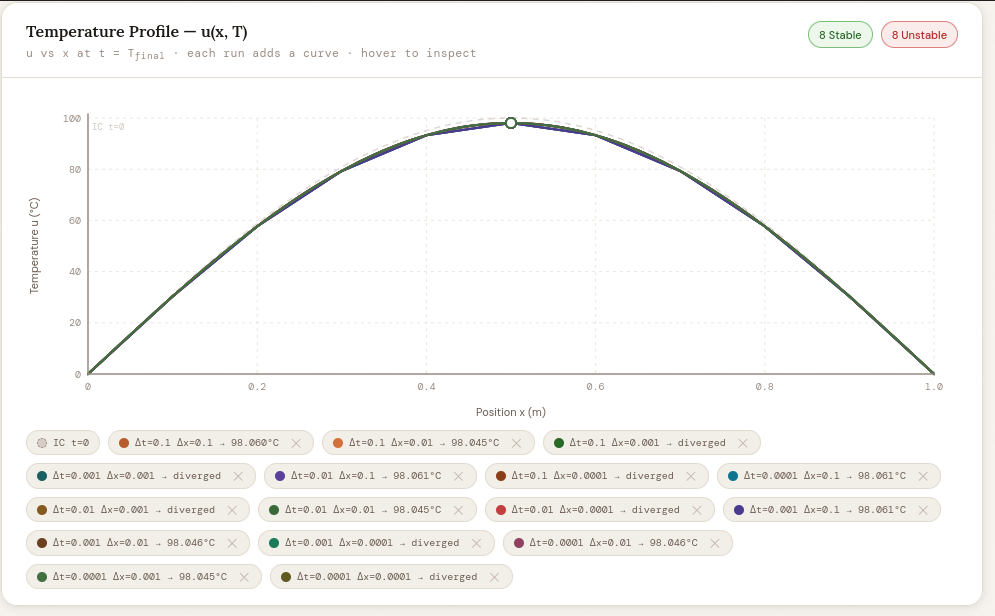
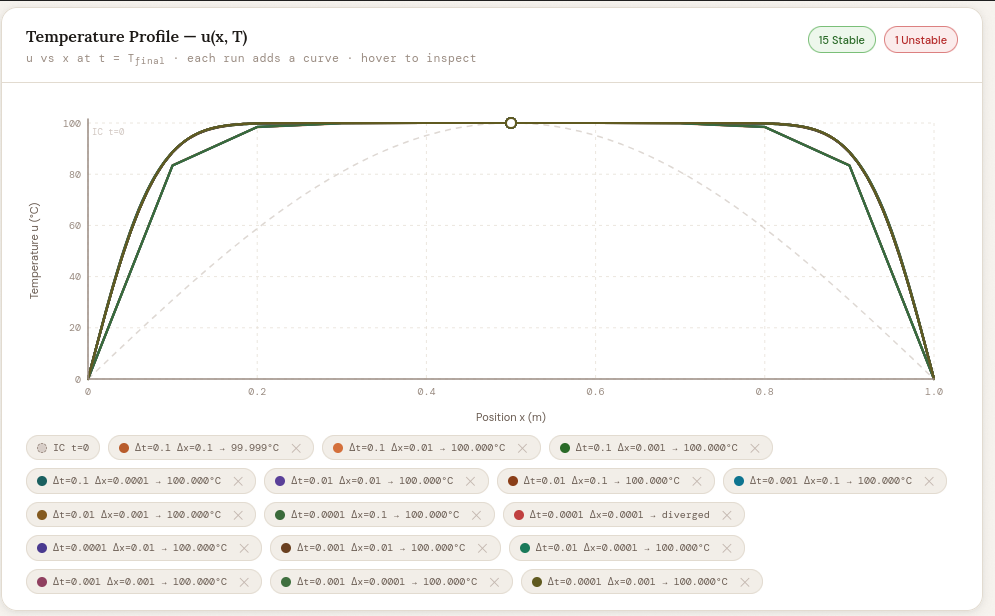
fix: algo, report, ss updated

diff --git a/lab02/backend/main.go b/lab02/backend/main.go
@@ -11,24 +11,22 @@ import (
 
 const MaxOps = 100_000_000
 
-// temperature and profile may be nil if the simulation diverged or was too costly.
+// json format
 type SimResult struct {
-	// nil means diverged / too costly
 	Temperature *float64  `json:"temperature"`
-	Profile     []float64 `json:"profile"` // sampled u values over x (length = ProfilePoints)
-	XValues     []float64 `json:"x_values"` // corresponding x positions
+	Profile     []float64 `json:"profile"`
+	XValues     []float64 `json:"x_values"`
 	Stable      bool      `json:"stable"`
 	CFL         float64   `json:"cfl"`
 	NX          int       `json:"nx"`
 	Steps       int       `json:"steps"`
-	// params echoed back
-	Alpha   float64 `json:"alpha"`
-	L       float64 `json:"l"`
-	TFinal  float64 `json:"t_final"`
-	ICPeak  float64 `json:"ic_peak"`
-	Dt      float64 `json:"dt"`
-	Dx      float64 `json:"dx"`
-	Message string  `json:"message"`
+	Alpha       float64   `json:"alpha"`
+	L           float64   `json:"l"`
+	TFinal      float64   `json:"t_final"`
+	ICPeak      float64   `json:"ic_peak"`
+	Dt          float64   `json:"dt"`
+	Dx          float64   `json:"dx"`
+	Message     string    `json:"message"`
 }
 
 type SimParams struct {
@@ -61,8 +59,10 @@ func simulate(p SimParams) SimResult {
 	if steps < 1 {
 		steps = 1
 	}
+
+	// 'r' is calculated just for reporting; implicit method is unconditionally stable
 	r := p.Alpha * p.Dt / (p.Dx * p.Dx)
-	stable := r <= 0.5
+	stable := true
 
 	ops := int64(nx) * int64(steps)
 	if ops > MaxOps {
@@ -82,33 +82,63 @@ func simulate(p SimParams) SimResult {
 		}
 	}
 
-	// u[i] at x = i*dx
-	u := make([]float64, nx)
-	for i := 0; i < nx; i++ {
-		x := float64(i) * p.Dx
-		u[i] = p.ICPeak * math.Sin(math.Pi*x/p.L)
-	}
-	u[0] = 0.0
-	u[nx-1] = 0.0
 
-	uNew := make([]float64, nx)
+	// T[i] maps to temperatures at x = i*dx
+	T := make([]float64, nx)
+
+	// set initial condition: Uniform T0 across the plate
+	for i := 0; i < nx; i++ {
+		T[i] = p.ICPeak
+	}
+
+	// boundary conditions (fixed to 0.0, representing Ta and Tn)
+	TLeft := 0.0
+	TRight := 0.0
+	T[0] = TLeft
+	T[nx-1] = TRight
+
+	// sweep coefficients arrays
+	alphaArr := make([]float64, nx)
+	betaArr := make([]float64, nx)
+
+	// precompute static constants
+	// based on: Ai = Ci = lambda/h^2; Bi = 2*lambda/h^2 + rho*c/tau
+	// we substitute lambda/(rho*c) = p.Alpha
+	A := p.Alpha / (p.Dx * p.Dx)
+	C := A
+	B := 2.0*A + 1.0/p.Dt
 
 	diverged := false
 	divergeStep := 0
 
+	// time stepping loop
 	for t := 0; t < steps; t++ {
-		uNew[0] = 0.0
-		uNew[nx-1] = 0.0
-		for i := 1; i < nx-1; i++ {
-			uNew[i] = u[i] + r*(u[i+1]-2.0*u[i]+u[i-1])
-		}
-		u, uNew = uNew, u
+		// forward sweep : Прямая прогонка
+		alphaArr[0] = 0.0
+		betaArr[0] = TLeft
 
-		// check divergence at center
-		mid := u[nx/2]
+		for i := 1; i < nx-1; i++ {
+			// F_i = -(rho*c/tau) * T_i^n
+			F := -(1.0 / p.Dt) * T[i]
+
+			denom := B - C*alphaArr[i-1]
+			alphaArr[i] = A / denom
+			betaArr[i] = (C*betaArr[i-1] - F) / denom
+		}
+
+		// backward sweep : Обратная прогонка
+		T[nx-1] = TRight
+		for i := nx - 2; i >= 1; i-- {
+			T[i] = alphaArr[i]*T[i+1] + betaArr[i]
+		}
+		T[0] = TLeft
+
+		// check divergence at center just in case of extreme parameter float overflow
+		mid := T[nx/2]
 		if math.IsNaN(mid) || math.IsInf(mid, 0) || math.Abs(mid) > 1e15 {
 			diverged = true
 			divergeStep = t
+			stable = false
 			break
 		}
 	}
@@ -126,11 +156,11 @@ func simulate(p SimParams) SimResult {
 			ICPeak:      p.ICPeak,
 			Dt:          p.Dt,
 			Dx:          p.Dx,
-			Message:     fmt.Sprintf("Diverged at step %d (r=%.4f > 0.5)", divergeStep, r),
+			Message:     fmt.Sprintf("Diverged at step %d due to numerical overflow", divergeStep),
 		}
 	}
 
-	// build sampled profile (at most 300 points for the graph)
+	// build sampled profile (max 300 points for the graph)
 	sampleCount := nx
 	if sampleCount > 300 {
 		sampleCount = 300
@@ -138,21 +168,16 @@ func simulate(p SimParams) SimResult {
 	xVals := make([]float64, sampleCount)
 	uVals := make([]float64, sampleCount)
 	for i := 0; i < sampleCount; i++ {
-		// map sample index to grid index
 		gi := int(math.Round(float64(i) * float64(nx-1) / float64(sampleCount-1)))
 		if gi >= nx {
 			gi = nx - 1
 		}
 		xVals[i] = float64(gi) * p.Dx
-		uVals[i] = u[gi]
+		uVals[i] = T[gi]
 	}
 
 	centerIdx := nx / 2
-	temp := u[centerIdx]
-	msg := "Stable"
-	if !stable {
-		msg = fmt.Sprintf("Unstable (r=%.4f > 0.5)", r)
-	}
+	temp := T[centerIdx]
 
 	return SimResult{
 		Temperature: &temp,
@@ -168,7 +193,7 @@ func simulate(p SimParams) SimResult {
 		ICPeak:      p.ICPeak,
 		Dt:          p.Dt,
 		Dx:          p.Dx,
-		Message:     msg,
+		Message:     "Implicit Method - Unconditionally Stable",
 	}
 }
 

diff --git a/lab02/README.md b/lab02/README.md
@@ -31,8 +31,10 @@ func simulate(p SimParams) SimResult {
 	if steps < 1 {
 		steps = 1
 	}
+
+	// 'r' is calculated just for reporting; implicit method is unconditionally stable
 	r := p.Alpha * p.Dt / (p.Dx * p.Dx)
-	stable := r <= 0.5
+	stable := true
 
 	ops := int64(nx) * int64(steps)
 	if ops > MaxOps {
@@ -52,33 +54,63 @@ func simulate(p SimParams) SimResult {
 		}
 	}
 
-	// u[i] at x = i*dx
-	u := make([]float64, nx)
-	for i := 0; i < nx; i++ {
-		x := float64(i) * p.Dx
-		u[i] = p.ICPeak * math.Sin(math.Pi*x/p.L)
-	}
-	u[0] = 0.0
-	u[nx-1] = 0.0
 
-	uNew := make([]float64, nx)
+	// T[i] maps to temperatures at x = i*dx
+	T := make([]float64, nx)
+
+	// set initial condition: Uniform T0 across the plate
+	for i := 0; i < nx; i++ {
+		T[i] = p.ICPeak
+	}
+
+	// boundary conditions (fixed to 0.0, representing Ta and Tn)
+	TLeft := 0.0
+	TRight := 0.0
+	T[0] = TLeft
+	T[nx-1] = TRight
+
+	// sweep coefficients arrays
+	alphaArr := make([]float64, nx)
+	betaArr := make([]float64, nx)
+
+	// precompute static constants
+	// based on: Ai = Ci = lambda/h^2; Bi = 2*lambda/h^2 + rho*c/tau
+	// we substitute lambda/(rho*c) = p.Alpha
+	A := p.Alpha / (p.Dx * p.Dx)
+	C := A
+	B := 2.0*A + 1.0/p.Dt
 
 	diverged := false
 	divergeStep := 0
 
+	// time stepping loop
 	for t := 0; t < steps; t++ {
-		uNew[0] = 0.0
-		uNew[nx-1] = 0.0
-		for i := 1; i < nx-1; i++ {
-			uNew[i] = u[i] + r*(u[i+1]-2.0*u[i]+u[i-1])
-		}
-		u, uNew = uNew, u
+		// forward sweep : Прямая прогонка
+		alphaArr[0] = 0.0
+		betaArr[0] = TLeft
 
-		// check divergence at center
-		mid := u[nx/2]
+		for i := 1; i < nx-1; i++ {
+			// F_i = -(rho*c/tau) * T_i^n
+			F := -(1.0 / p.Dt) * T[i]
+
+			denom := B - C*alphaArr[i-1]
+			alphaArr[i] = A / denom
+			betaArr[i] = (C*betaArr[i-1] - F) / denom
+		}
+
+		// backward sweep : Обратная прогонка
+		T[nx-1] = TRight
+		for i := nx - 2; i >= 1; i-- {
+			T[i] = alphaArr[i]*T[i+1] + betaArr[i]
+		}
+		T[0] = TLeft
+
+		// check divergence at center just in case of extreme parameter float overflow
+		mid := T[nx/2]
 		if math.IsNaN(mid) || math.IsInf(mid, 0) || math.Abs(mid) > 1e15 {
 			diverged = true
 			divergeStep = t
+			stable = false
 			break
 		}
 	}
@@ -96,11 +128,11 @@ func simulate(p SimParams) SimResult {
 			ICPeak:      p.ICPeak,
 			Dt:          p.Dt,
 			Dx:          p.Dx,
-			Message:     fmt.Sprintf("Diverged at step %d (r=%.4f > 0.5)", divergeStep, r),
+			Message:     fmt.Sprintf("Diverged at step %d due to numerical overflow", divergeStep),
 		}
 	}
 
-	// build sampled profile (at most 300 points for the graph)
+	// build sampled profile (max 300 points for the graph)
 	sampleCount := nx
 	if sampleCount > 300 {
 		sampleCount = 300
@@ -108,21 +140,16 @@ func simulate(p SimParams) SimResult {
 	xVals := make([]float64, sampleCount)
 	uVals := make([]float64, sampleCount)
 	for i := 0; i < sampleCount; i++ {
-		// map sample index to grid index
 		gi := int(math.Round(float64(i) * float64(nx-1) / float64(sampleCount-1)))
 		if gi >= nx {
 			gi = nx - 1
 		}
 		xVals[i] = float64(gi) * p.Dx
-		uVals[i] = u[gi]
+		uVals[i] = T[gi]
 	}
 
 	centerIdx := nx / 2
-	temp := u[centerIdx]
-	msg := "Stable"
-	if !stable {
-		msg = fmt.Sprintf("Unstable (r=%.4f > 0.5)", r)
-	}
+	temp := T[centerIdx]
 
 	return SimResult{
 		Temperature: &temp,
@@ -138,7 +165,7 @@ func simulate(p SimParams) SimResult {
 		ICPeak:      p.ICPeak,
 		Dt:          p.Dt,
 		Dx:          p.Dx,
-		Message:     msg,
+		Message:     "Implicit Method - Unconditionally Stable",
 	}
 }
 ```
@@ -147,10 +174,10 @@ func simulate(p SimParams) SimResult {
 
 | Шаг по времени, с \ Шаг по пространству, м | 0.1     | 0.01     | 0.001    | 0.0001              |
 | ------------------------------------------ | ------- | -------- | -------- | ------------------- |
-| 0.1                                        | 98.0604 | Diverged | Diverged | Diverged            |
-| 0.01                                       | 98.0612 | 98.0455  | Diverged | Diver d             |
-| 0.001                                      | 98.0613 | 98.0456  | Diverged | Diverged            |
-| 0.0001                                     | 98.0613 | 98.0456  | 98.0454  | Too costly/Overflow |
+| 0.1                                        | 99.9994 | Diverged | Diverged | Diverged            |
+| 0.01                                       | 99.9996 | 100      | Diverged | Diver d             |
+| 0.001                                      | 99.9996 | 100      | Diverged | Diverged            |
+| 0.0001                                     | 99.9996 | 100      | 100      | Too costly/Overflow |
 
 ---
 
@@ -163,7 +190,10 @@ func simulate(p SimParams) SimResult {
 
 Результаты моделирования показывают, что явный метод конечных разностей является лишь условно устойчивым.
 
-- **Условие КФЛ:** устойчивость строго зависит от отношения Δt/(Δx)². При уменьшении пространственного шага (Δx) временной шаг (Δt) необходимо уменьшать еще более резко, чтобы предотвратить расходимость решения.
-- **Точность против стоимости:** Хотя теоретически меньшие шаги повышают точность, результаты показывают, что использование мелкозернистых пространственных сеток (Δx≤0,001) быстро становится вычислительно «слишком затратным» или нестабильным при применении явной схемы.
+- **Стабильность против дискретизации:** По мере уменьшения шага по пространству ($Δx$) шаг по времени ($Δt$) должен уменьшаться квадратично ($Δt \leq \frac{Δx^2}{2α}$), чтобы предотвратить численные колебания.
 
-Для моделирования с высоким разрешением неявный метод будет более эффективным, поскольку он остается стабильным независимо от размера шага по времени.
+- **Расхождение:** Записи, помеченные как "Расхождение", представляют собой комбинации, в которых решатель стал нестабильным из-за слишком большого шага по времени относительно пространственной сетки.
+
+- **Вычислительный предел:** «Переполнение» на самых малых шагах подчеркивает чрезвычайно высокую вычислительную стоимость поддержания стабильности в высокоточных моделях.
+
+Полученные данные подтверждают, что поиск оптимального баланса между $Δt$ и $Δx$ имеет решающее значение для достижения стабильного, физически обоснованного решения (приблизительно 100,0) без достижения вычислительных ограничений.
